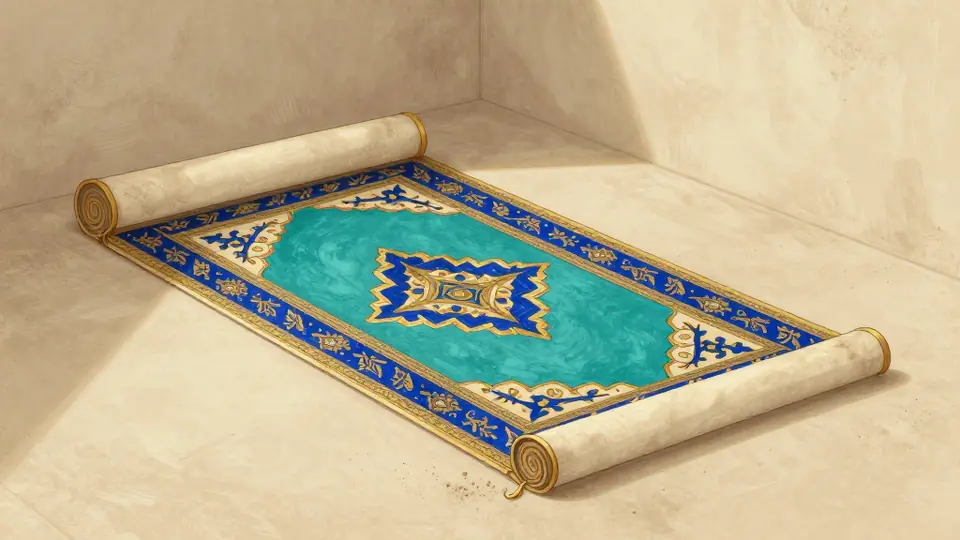
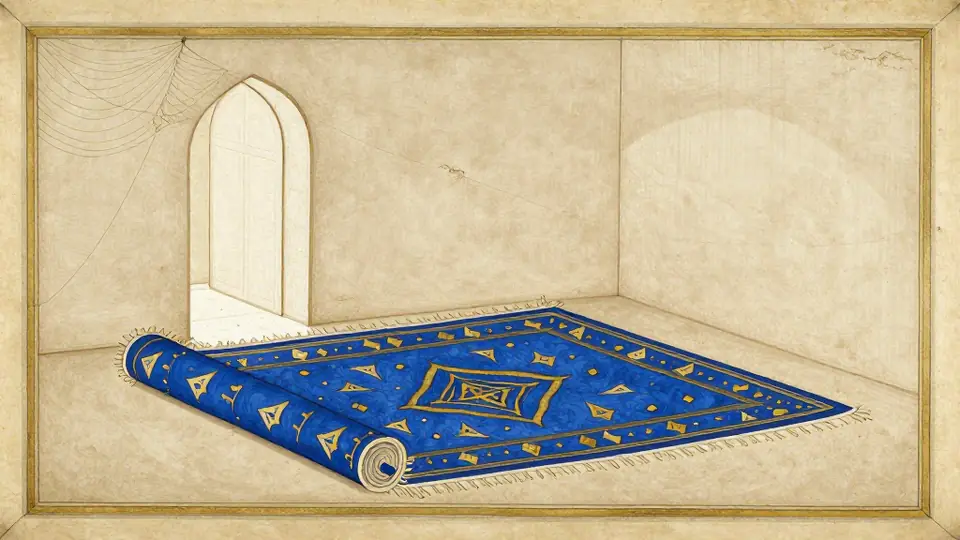
Repaint the photographic surah plates, and verify the surah plates
The four prayer-rug plates rendered as photographs; reframed as flat,
frontal miniatures. Al-Bayyinah 4 now actually branches (the "fingers of a
hand" wording drew hands), and Al-Bayyinah 5 moves out of an arched niche
that kept growing fake calligraphy above it.

surah.css is now versioned (?v=20261008) on all 22 pages and the template:
the plates carry width="960", so a returning visitor with a cached sheet
would see them at full size on a phone. verify-illustrations.py now checks
every surah plate against the spec, its placement, alt, lazy loading, size,
and the ?v=. TODO.md records what leaked in this batch.

diff --git a/UI/surah-al-ikhlas.html b/UI/surah-al-ikhlas.html
@@ -11,7 +11,7 @@
     <link href="https://fonts.googleapis.com/css2?family=Baloo+2:wght@500;600;700;800&family=Nunito:wght@400;600;700&family=Amiri:wght@400;700&display=swap" rel="stylesheet">
     <link href="https://fonts.googleapis.com/css2?family=Amiri+Quran&family=Aref+Ruqaa:wght@700&display=swap" rel="stylesheet">
     <link rel="stylesheet" href="styles.css">
-    <link rel="stylesheet" href="surah.css">
+    <link rel="stylesheet" href="surah.css?v=20261008">
 </head>
 <body>
     <!-- Floating Decorations -->

diff --git a/UI/surah-fatiha.html b/UI/surah-fatiha.html
@@ -11,7 +11,7 @@
     <link href="https://fonts.googleapis.com/css2?family=Baloo+2:wght@500;600;700;800&family=Nunito:wght@400;600;700&family=Amiri:wght@400;700&display=swap" rel="stylesheet">
     <link href="https://fonts.googleapis.com/css2?family=Amiri+Quran&family=Aref+Ruqaa:wght@700&display=swap" rel="stylesheet">
     <link rel="stylesheet" href="styles.css">
-    <link rel="stylesheet" href="surah.css">
+    <link rel="stylesheet" href="surah.css?v=20261008">
 </head>
 <body>
     <!-- Floating Decorations -->

diff --git a/UI/ayat-al-kursi.html b/UI/ayat-al-kursi.html
@@ -10,7 +10,7 @@
     <link rel="preconnect" href="https://fonts.gstatic.com" crossorigin>
     <link href="https://fonts.googleapis.com/css2?family=Baloo+2:wght@500;600;700;800&family=Nunito:wght@400;600;700&family=Amiri:wght@400;700&display=swap" rel="stylesheet">
     <link rel="stylesheet" href="styles.css">
-    <link rel="stylesheet" href="surah.css">
+    <link rel="stylesheet" href="surah.css?v=20261008">
 </head>
 <body>
     <!-- Floating Decorations -->

diff --git a/UI/surah-ad-duha.html b/UI/surah-ad-duha.html
@@ -10,7 +10,7 @@
     <link rel="preconnect" href="https://fonts.gstatic.com" crossorigin>
     <link href="https://fonts.googleapis.com/css2?family=Baloo+2:wght@500;600;700;800&family=Nunito:wght@400;600;700&family=Amiri:wght@400;700&display=swap" rel="stylesheet">
     <link rel="stylesheet" href="styles.css">
-    <link rel="stylesheet" href="surah.css">
+    <link rel="stylesheet" href="surah.css?v=20261008">
 </head>
 <body>
     <!-- Floating Decorations -->

diff --git a/UI/surah-al-adiyat.html b/UI/surah-al-adiyat.html
@@ -10,7 +10,7 @@
     <link rel="preconnect" href="https://fonts.gstatic.com" crossorigin>
     <link href="https://fonts.googleapis.com/css2?family=Baloo+2:wght@500;600;700;800&family=Nunito:wght@400;600;700&family=Amiri:wght@400;700&display=swap" rel="stylesheet">
     <link rel="stylesheet" href="styles.css">
-    <link rel="stylesheet" href="surah.css">
+    <link rel="stylesheet" href="surah.css?v=20261008">
 </head>
 <body>
     <!-- Floating Decorations -->

diff --git a/UI/surah-al-asr.html b/UI/surah-al-asr.html
@@ -10,7 +10,7 @@
     <link rel="preconnect" href="https://fonts.gstatic.com" crossorigin>
     <link href="https://fonts.googleapis.com/css2?family=Baloo+2:wght@500;600;700;800&family=Nunito:wght@400;600;700&family=Amiri:wght@400;700&display=swap" rel="stylesheet">
     <link rel="stylesheet" href="styles.css">
-    <link rel="stylesheet" href="surah.css">
+    <link rel="stylesheet" href="surah.css?v=20261008">
 </head>
 <body>
     <!-- Floating Decorations -->

diff --git a/UI/surah-al-bayyinah.html b/UI/surah-al-bayyinah.html
@@ -10,7 +10,7 @@
     <link rel="preconnect" href="https://fonts.gstatic.com" crossorigin>
     <link href="https://fonts.googleapis.com/css2?family=Baloo+2:wght@500;600;700;800&family=Nunito:wght@400;600;700&family=Amiri:wght@400;700&display=swap" rel="stylesheet">
     <link rel="stylesheet" href="styles.css">
-    <link rel="stylesheet" href="surah.css">
+    <link rel="stylesheet" href="surah.css?v=20261008">
 </head>
 <body>
     <!-- Floating Decorations -->

diff --git a/UI/surah-al-falaq.html b/UI/surah-al-falaq.html
@@ -10,7 +10,7 @@
     <link rel="preconnect" href="https://fonts.gstatic.com" crossorigin>
     <link href="https://fonts.googleapis.com/css2?family=Baloo+2:wght@500;600;700;800&family=Nunito:wght@400;600;700&family=Amiri:wght@400;700&display=swap" rel="stylesheet">
     <link rel="stylesheet" href="styles.css">
-    <link rel="stylesheet" href="surah.css">
+    <link rel="stylesheet" href="surah.css?v=20261008">
 </head>
 <body>
     <!-- Floating Decorations -->

diff --git a/UI/surah-al-fil.html b/UI/surah-al-fil.html
@@ -10,7 +10,7 @@
     <link rel="preconnect" href="https://fonts.gstatic.com" crossorigin>
     <link href="https://fonts.googleapis.com/css2?family=Baloo+2:wght@500;600;700;800&family=Nunito:wght@400;600;700&family=Amiri:wght@400;700&display=swap" rel="stylesheet">
     <link rel="stylesheet" href="styles.css">
-    <link rel="stylesheet" href="surah.css">
+    <link rel="stylesheet" href="surah.css?v=20261008">
 </head>
 <body>
     <!-- Floating Decorations -->

diff --git a/UI/surah-al-humazah.html b/UI/surah-al-humazah.html
@@ -10,7 +10,7 @@
     <link rel="preconnect" href="https://fonts.gstatic.com" crossorigin>
     <link href="https://fonts.googleapis.com/css2?family=Baloo+2:wght@500;600;700;800&family=Nunito:wght@400;600;700&family=Amiri:wght@400;700&display=swap" rel="stylesheet">
     <link rel="stylesheet" href="styles.css">
-    <link rel="stylesheet" href="surah.css">
+    <link rel="stylesheet" href="surah.css?v=20261008">
 </head>
 <body>
     <!-- Floating Decorations -->

diff --git a/UI/surah-al-kafirun.html b/UI/surah-al-kafirun.html
@@ -10,7 +10,7 @@
     <link rel="preconnect" href="https://fonts.gstatic.com" crossorigin>
     <link href="https://fonts.googleapis.com/css2?family=Baloo+2:wght@500;600;700;800&family=Nunito:wght@400;600;700&family=Amiri:wght@400;700&display=swap" rel="stylesheet">
     <link rel="stylesheet" href="styles.css">
-    <link rel="stylesheet" href="surah.css">
+    <link rel="stylesheet" href="surah.css?v=20261008">
 </head>
 <body>
     <!-- Floating Decorations -->

diff --git a/UI/surah-al-kawthar.html b/UI/surah-al-kawthar.html
@@ -10,7 +10,7 @@
     <link rel="preconnect" href="https://fonts.gstatic.com" crossorigin>
     <link href="https://fonts.googleapis.com/css2?family=Baloo+2:wght@500;600;700;800&family=Nunito:wght@400;600;700&family=Amiri:wght@400;700&display=swap" rel="stylesheet">
     <link rel="stylesheet" href="styles.css">
-    <link rel="stylesheet" href="surah.css">
+    <link rel="stylesheet" href="surah.css?v=20261008">
 </head>
 <body>
     <!-- Floating Decorations -->
